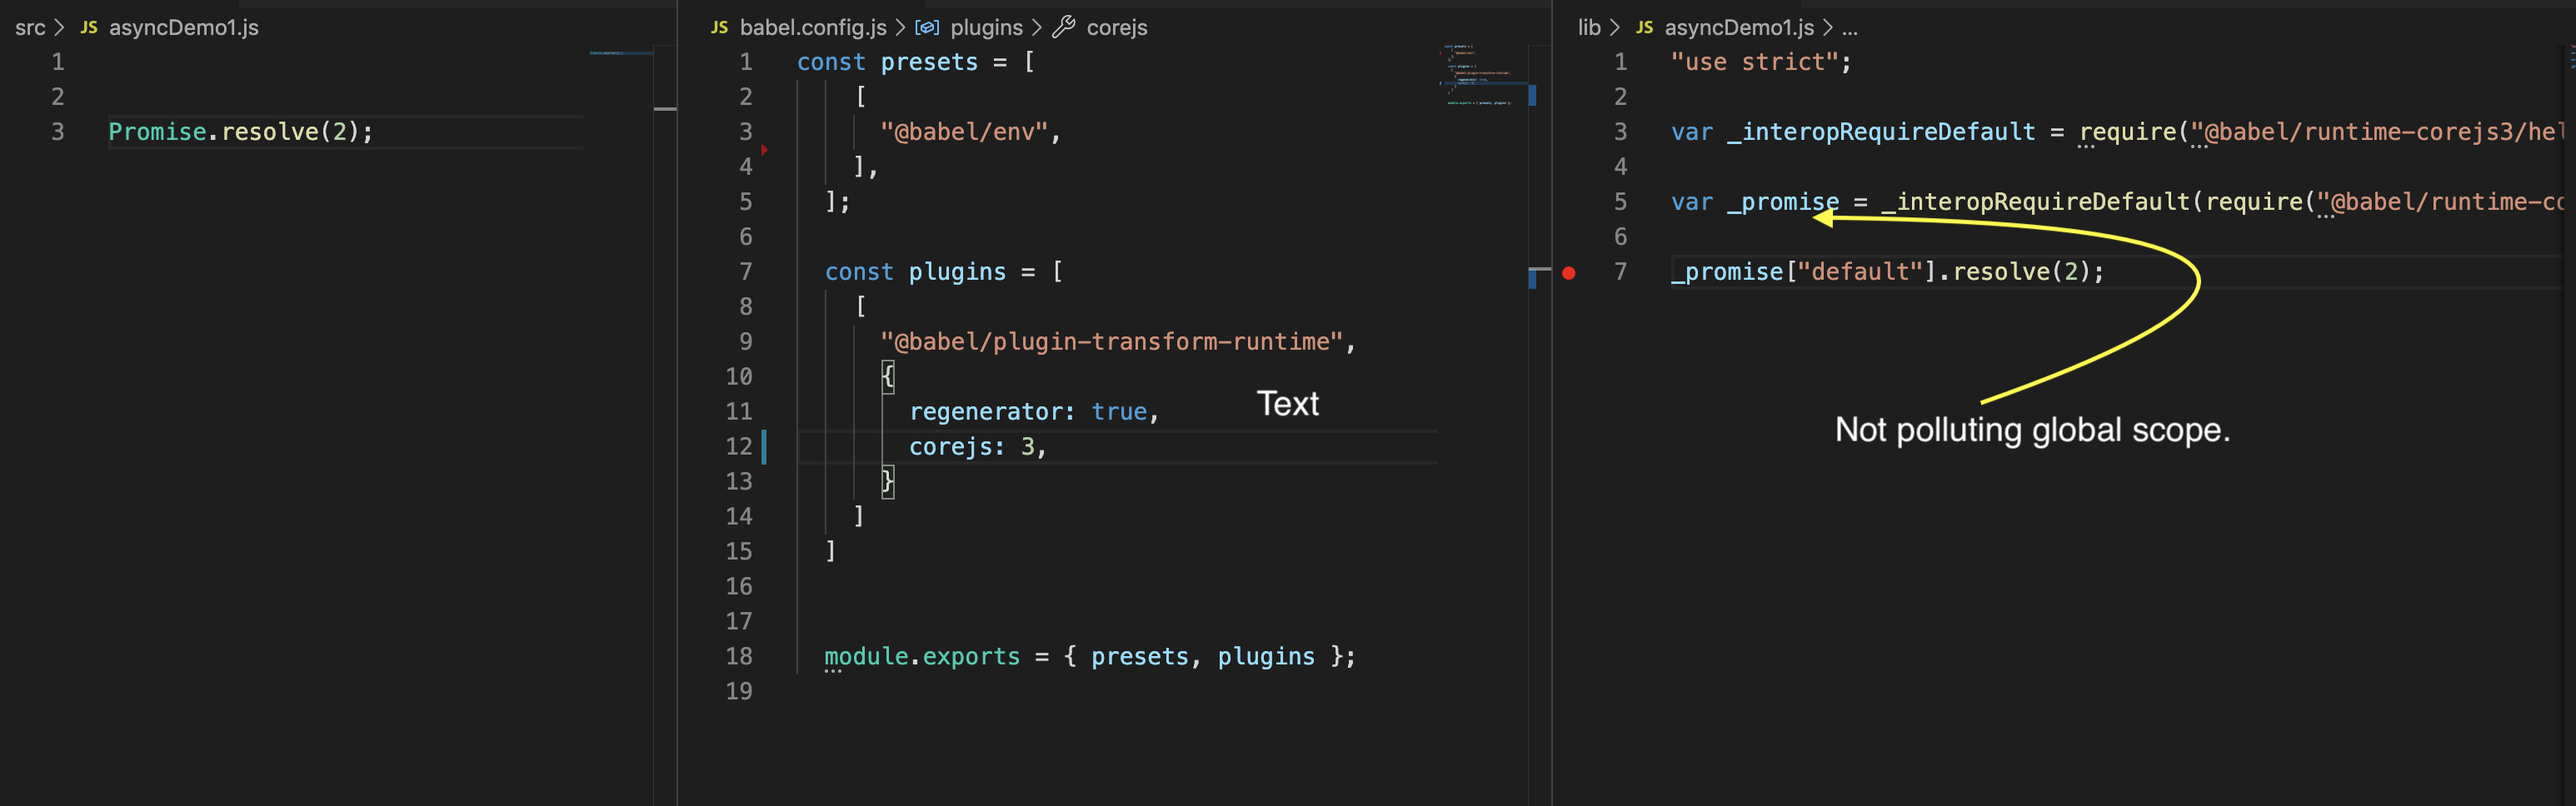
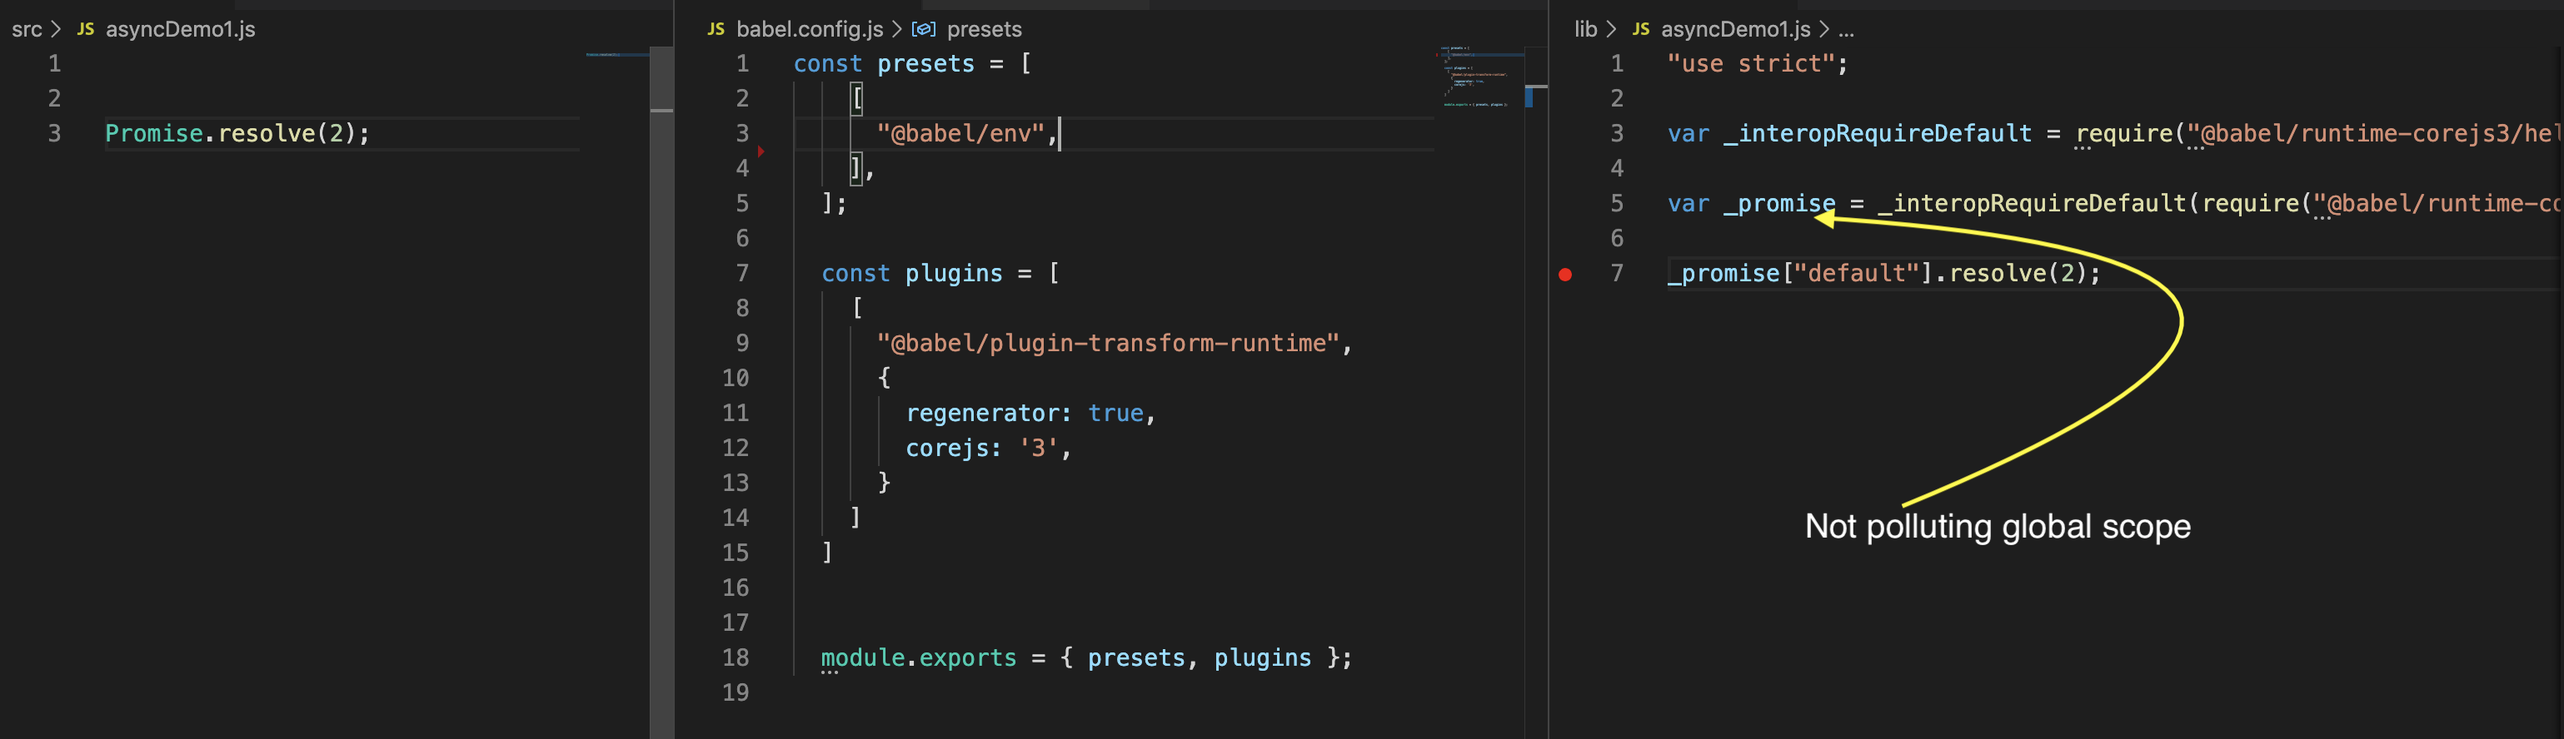
Added Transform runtime

diff --git a/babel.config.js b/babel.config.js
@@ -1,18 +1,6 @@
 const presets = [
     [
       "@babel/env",
-      {
-        corejs: { version: 3 },
-        useBuiltIns: 'usage',
-        targets: {
-          chrome: '50',
-          ie:'10',
-          node: '8',
-        },
-        exclude: [
-          "transform-regenerator"
-        ]
-      },
     ],
   ];
 

diff --git a/README.md b/README.md
@@ -88,9 +88,9 @@ Also note the yellow highlight in above image. We need to exclude preset-env fro
 
 All above mentioned ways of importing core-js polyfills will pollute the global scope. This is fine if we are using it in our app. If we are writing a library and we dont want to pollute the global scope.
 
-we can achieve this by using [@babel/plugin-transform-runtime](https://babeljs.io/docs/en/babel-plugin-transform-runtime) with [@babel/runtime-corejs2](https://babeljs.io/docs/en/babel-runtime-corejs2) as shown below.
+we can achieve this by using [@babel/plugin-transform-runtime](https://babeljs.io/docs/en/babel-plugin-transform-runtime) with [@babel/runtime-corejs3](https://github.com/babel/babel/tree/master/packages/babel-runtime-corejs3) as shown below.
 
-add [@babel/runtime-corejs3](https://github.com/babel/babel/tree/master/packages/babel-runtime-corejs3) as prod dependency instead of [@babel/plugin-transform-runtime](https://babeljs.io/docs/en/babel-plugin-transform-runtime).
+add [@babel/runtime-corejs3](https://github.com/babel/babel/tree/master/packages/babel-runtime-corejs3) as prod dependency instead of [@babel/runtime](https://babeljs.io/docs/en/babel-runtime).
 
 Remove ```useBuiltIns``` from preset-env.
 
